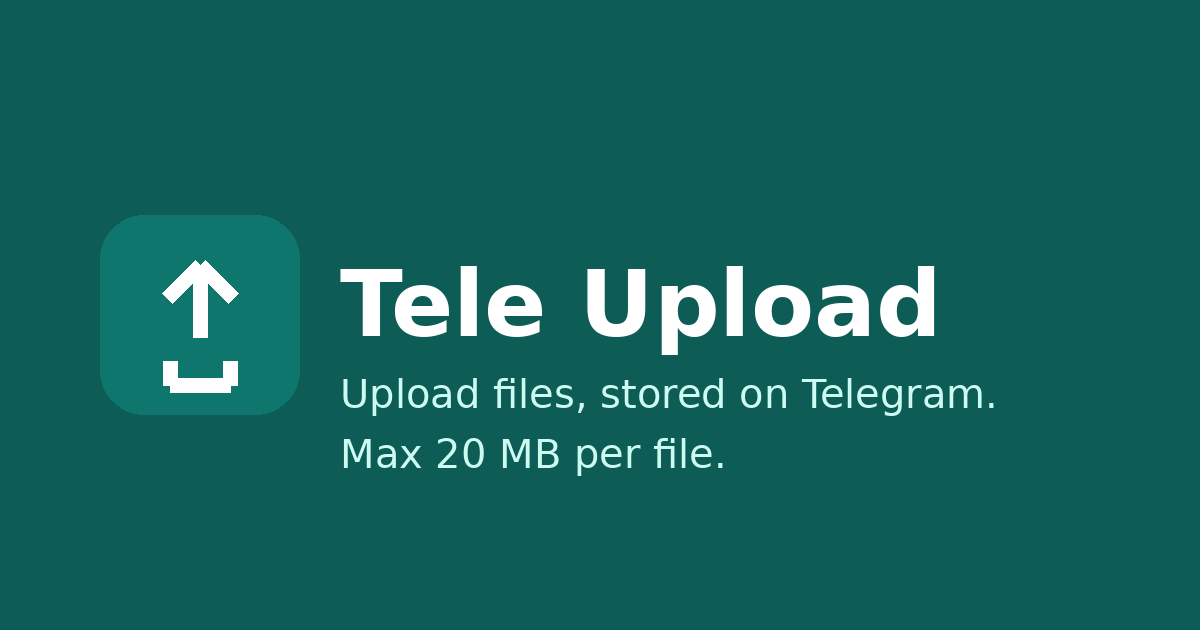
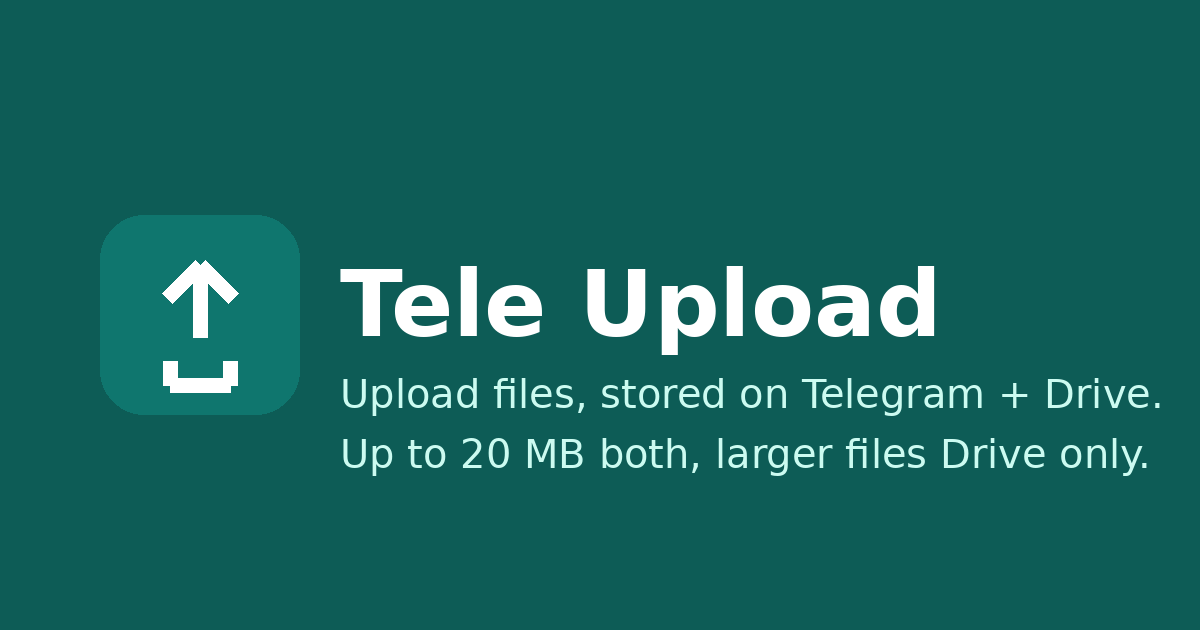
Sync OG subtitles and page titles with the Drive mirror
OG image: subtitles are now 'Upload files, stored on Telegram + Drive.' and 'Up to 20 MB both, larger files Drive only.' (the old 'Max 20 MB per file.' line was stale since Drive-only uploads exist). Page titles, OG/Twitter titles, and OG image alt text now say 'Stored on Telegram + Drive' instead of just 'Telegram'. Layout, icon, and title artwork are unchanged.

Changed region(s): [[0.2775, 0.6937, 0.9558, 0.754], [0.8325, 0.6032, 0.9558, 0.6635]]

diff --git a/src/index.js b/src/index.js
@@ -3,7 +3,7 @@ const PAGE = `<!DOCTYPE html>
 <head>
 <meta charset="UTF-8">
 <meta name="viewport" content="width=device-width, initial-scale=1.0">
-<title>Tele Upload - Upload Files, Stored on Telegram</title>
+<title>Tele Upload - Upload Files, Stored on Telegram + Drive</title>
 <meta name="description" content="Tele Upload: upload files via the web, stored safely on Telegram + Drive. Up to 20 MB go to both, over 20 MB Drive only.">
 <meta name="keywords" content="upload files, store files, telegram, tele upload, file sharing, file hosting">
 <meta name="robots" content="index, follow">
@@ -16,15 +16,15 @@ const PAGE = `<!DOCTYPE html>
 <meta property="og:type" content="website">
 <meta property="og:site_name" content="Tele Upload">
 <meta property="og:locale" content="en_US">
-<meta property="og:title" content="Tele Upload - Upload Files, Stored on Telegram">
+<meta property="og:title" content="Tele Upload - Upload Files, Stored on Telegram + Drive">
 <meta property="og:description" content="Upload files via the web, stored safely on Telegram + Drive. Up to 20 MB go to both, over 20 MB Drive only.">
 <meta property="og:url" content="https://upload.xsrazy.web.id/">
 <meta property="og:image" content="https://upload.xsrazy.web.id/og.png">
 <meta property="og:image:width" content="1200">
 <meta property="og:image:height" content="630">
-<meta property="og:image:alt" content="Tele Upload - Upload files, stored on Telegram">
+<meta property="og:image:alt" content="Tele Upload - Upload files, stored on Telegram + Drive">
 <meta name="twitter:card" content="summary_large_image">
-<meta name="twitter:title" content="Tele Upload - Upload Files, Stored on Telegram">
+<meta name="twitter:title" content="Tele Upload - Upload Files, Stored on Telegram + Drive">
 <meta name="twitter:description" content="Upload files via the web, stored safely on Telegram + Drive. Up to 20 MB go to both, over 20 MB Drive only.">
 <meta name="twitter:image" content="https://upload.xsrazy.web.id/og.png">
 <script type="application/ld+json">{"@context":"https://schema.org","@type":"WebApplication","name":"Tele Upload","url":"https://upload.xsrazy.web.id/","description":"Upload files via the web, stored safely on Telegram + Drive. Up to 20 MB go to both, over 20 MB Drive only.","applicationCategory":"UtilitiesApplication","operatingSystem":"Web","offers":{"@type":"Offer","price":"0","priceCurrency":"IDR"}}</script>
@@ -85,15 +85,15 @@ const LOCK = `<!DOCTYPE html>
 <meta property="og:type" content="website">
 <meta property="og:site_name" content="Tele Upload">
 <meta property="og:locale" content="en_US">
-<meta property="og:title" content="Tele Upload - Upload Files, Stored on Telegram">
+<meta property="og:title" content="Tele Upload - Upload Files, Stored on Telegram + Drive">
 <meta property="og:description" content="Upload files via the web, stored safely on Telegram + Drive. Up to 20 MB go to both, over 20 MB Drive only.">
 <meta property="og:url" content="https://upload.xsrazy.web.id/">
 <meta property="og:image" content="https://upload.xsrazy.web.id/og.png">
 <meta property="og:image:width" content="1200">
 <meta property="og:image:height" content="630">
-<meta property="og:image:alt" content="Tele Upload - Upload files, stored on Telegram">
+<meta property="og:image:alt" content="Tele Upload - Upload files, stored on Telegram + Drive">
 <meta name="twitter:card" content="summary_large_image">
-<meta name="twitter:title" content="Tele Upload - Upload Files, Stored on Telegram">
+<meta name="twitter:title" content="Tele Upload - Upload Files, Stored on Telegram + Drive">
 <meta name="twitter:description" content="Upload files via the web, stored safely on Telegram + Drive. Up to 20 MB go to both, over 20 MB Drive only.">
 <meta name="twitter:image" content="https://upload.xsrazy.web.id/og.png">
 <style>

diff --git a/gen_assets.py b/gen_assets.py
@@ -67,8 +67,8 @@ og.paste(badge, (100, 215), badge)
 f_title = font(FONT_BOLD, 92)
 f_sub = font(FONT_REG, 40)
 d.text((340, 250), "Tele Upload", font=f_title, fill=WHITE)
-d.text((340, 370), "Upload files, stored on Telegram.", font=f_sub, fill=LIGHT)
-d.text((340, 430), "Max 20 MB per file.", font=f_sub, fill=LIGHT)
+d.text((340, 370), "Upload files, stored on Telegram + Drive.", font=f_sub, fill=LIGHT)
+d.text((340, 430), "Up to 20 MB both, larger files Drive only.", font=f_sub, fill=LIGHT)
 og.save(os.path.join(OUT, "og.png"))
 
 for f in ["favicon.png", "apple-touch-icon.png", "favicon.ico", "og.png"]:
